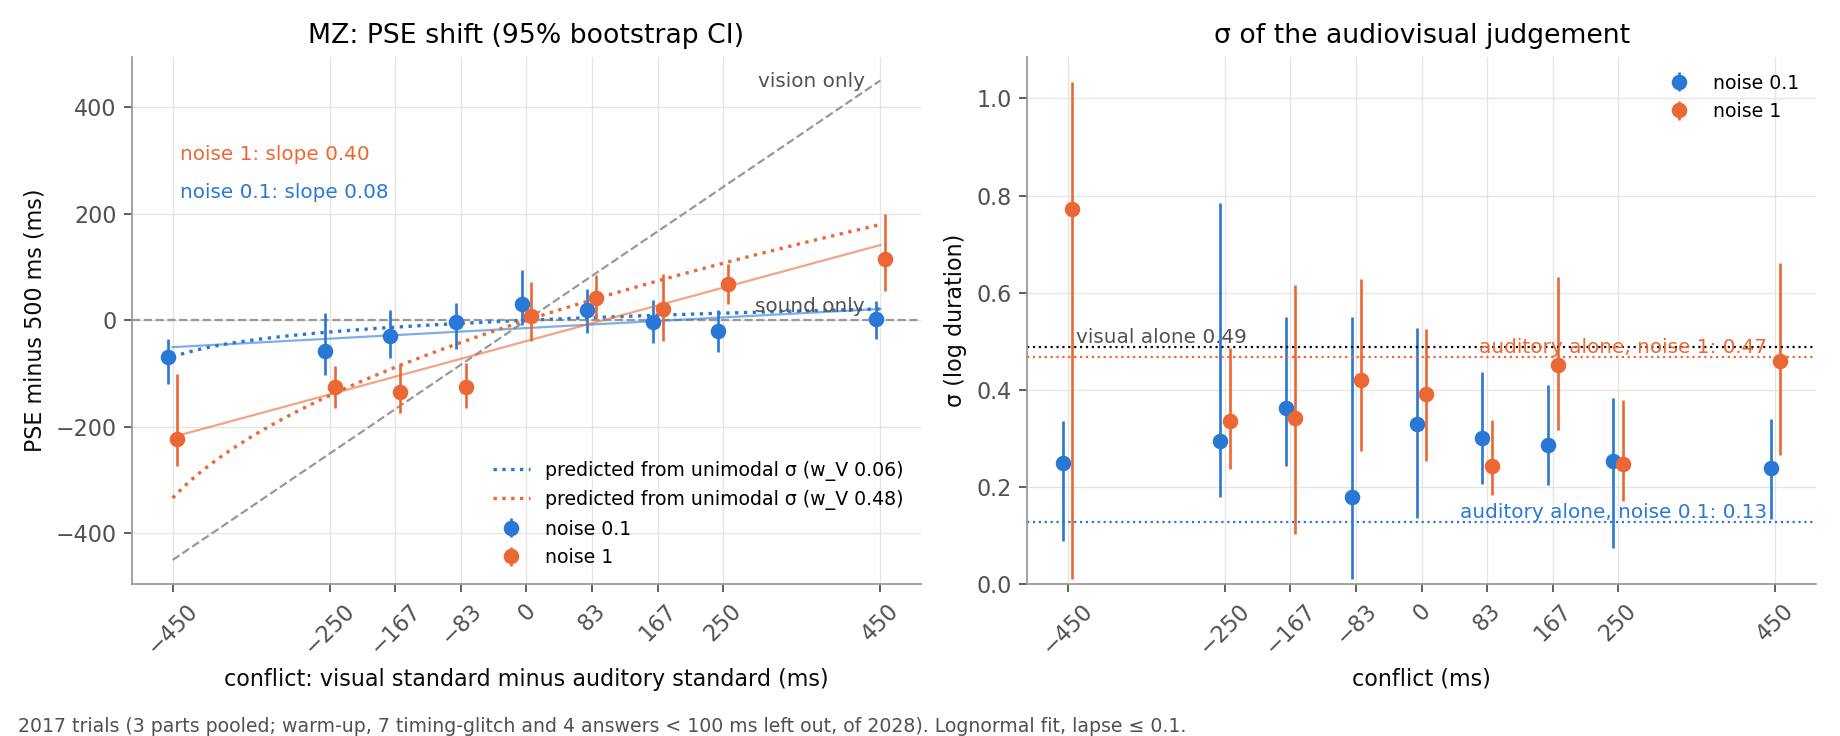
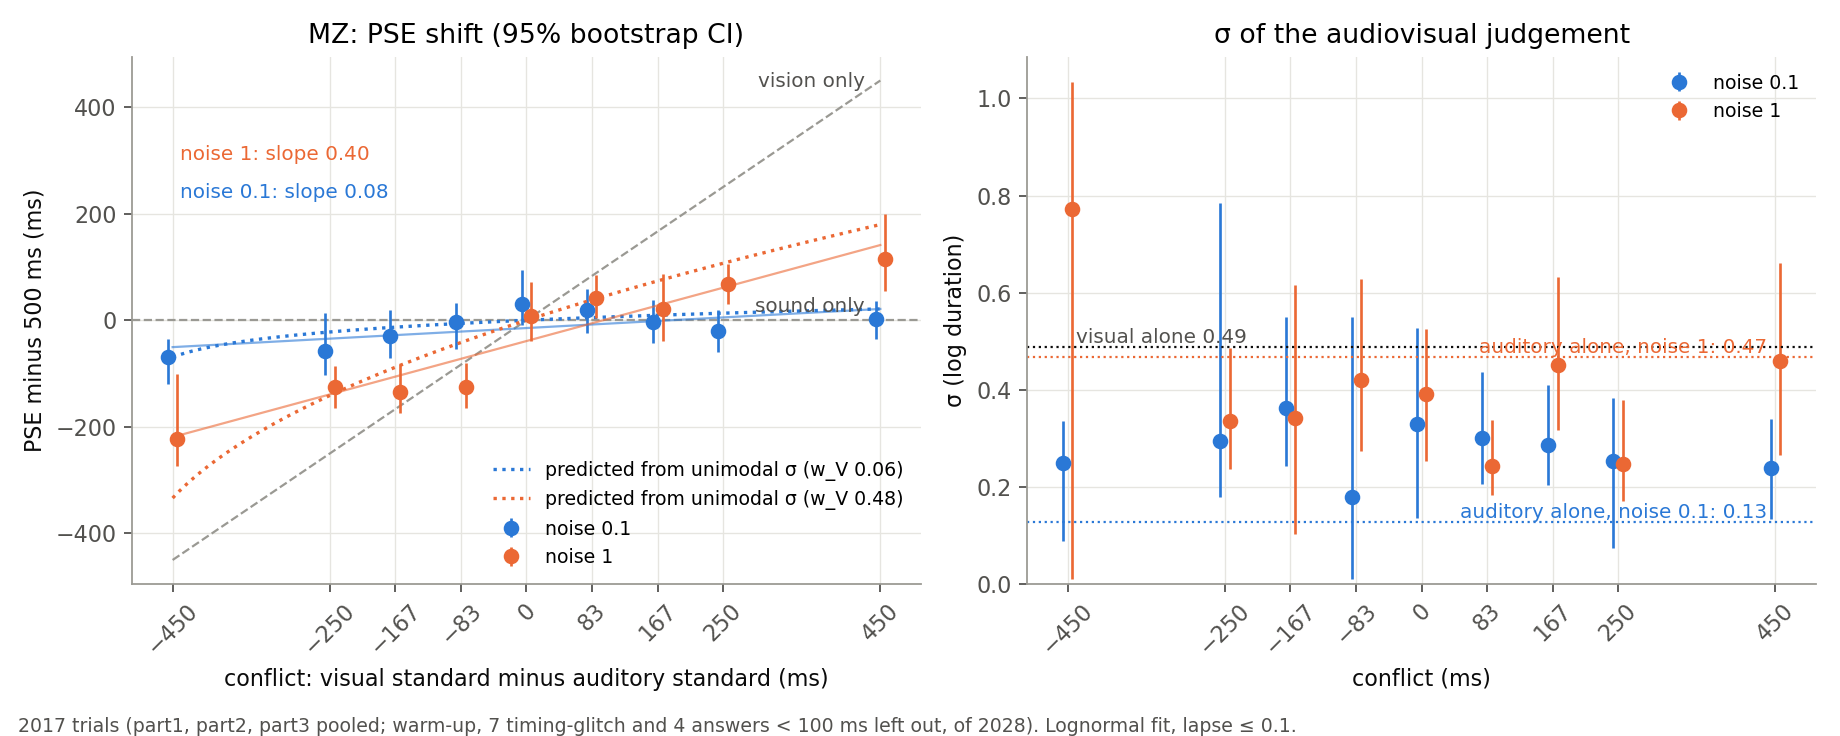
Staircase plots fit the staircases; main plots for KJ and BQ
stairplot: the y range now holds the staircase trials and the standard only.
Easy trials outside it (e.g. 2000 ms) are drawn on the panel edge.

main_bias_plots: name the parts actually pooled; --keep-fast keeps answers
under 100 ms (files get a _keepfast suffix). KJ (parts 1-2) and BQ (all
parts, with and without fast answers) fits and figures.

Changed region(s): [[0.062, 0.9688, 0.7125, 1.0]]

diff --git a/av_dur_experiment_v2/analysis/main_bias_plots.py b/av_dur_experiment_v2/analysis/main_bias_plots.py
@@ -3,6 +3,7 @@ psychometric fit of every condition. Lognormal fit, lapse <= 0.1 shared per nois
 
     python analysis/main_bias_plots.py MZ            # figures to analysis/pilot_main/
     python analysis/main_bias_plots.py MZ --refit    # refit (otherwise the saved fits are reused)
+    python analysis/main_bias_plots.py BQ --keep-fast   # keep answers < 100 ms (files get a _keepfast suffix)
 
 Left out: warm-up trials (load_trials), trials with a dropped frame or a late first frame (more than half
 a frame, so sound and flash were misaligned), and answers faster than 100 ms after the prompt.
@@ -27,6 +28,8 @@ PID = sys.argv[1] if len(sys.argv) > 1 else "MZ"
 DATA = ROOT / "data"
 OUT = ROOT / "analysis" / "pilot_main"
 N_BOOT = 200
+KEEP_FAST = "--keep-fast" in sys.argv
+SUF = "_keepfast" if KEEP_FAST else ""
 INK, MUTED, GREY = "#0b0b0b", "#52514e", "#9a9993"
 COL = {S.NOISE_LOW: "#2a78d6", S.NOISE_HIGH: "#eb6834"}          # categorical slots 1-2 (validated pair)
 plt.rcParams.update({"font.size": 10, "axes.spines.top": False, "axes.spines.right": False, "axes.edgecolor": GREY,
@@ -37,7 +40,7 @@ plt.rcParams.update({"font.size": 10, "axes.spines.top": False, "axes.spines.rig
 def clean(d):
     d = d[d.responses.isin([1, 2])]
     glitch = (d.n_dropped_frames.fillna(0) > 0) | (d.flip0_error_s.abs() > 0.5 / S.EXPECTED_FRAME_RATE_HZ)
-    fast = d.response_rts < 0.1
+    fast = (d.response_rts < 0.1) & (not KEEP_FAST)
     return d[~glitch & ~fast], int(glitch.sum()), int(fast.sum())
 
 
@@ -76,7 +79,7 @@ def main():
     m = m[m.kind.isin(["staircase", "lapse"])]
     m["conflict_ms"] = (1000 * m.conflict_nominal).round().astype(int)
     rows = []
-    saved = OUT / f"{PID}_main_fits.csv"
+    saved = OUT / f"{PID}_main_fits{SUF}.csv"
     if saved.exists() and "--refit" not in sys.argv:          # the bootstrap takes a few minutes
         rows = pd.read_csv(saved).to_dict("records")
     for (noise, c), d in ([] if rows else m.groupby(["audNoise", "conflict_ms"])):
@@ -87,7 +90,7 @@ def main():
     fits = pd.DataFrame(rows)
     uni = unimodal_sigmas(PID)
     OUT.mkdir(parents=True, exist_ok=True)
-    fits.round(4).to_csv(OUT / f"{PID}_main_fits.csv", index=False)
+    fits.round(4).to_csv(OUT / f"{PID}_main_fits{SUF}.csv", index=False)
 
     # ── figure 1: PSE shift and sigma against conflict ──────────────────────────
     fig, (a1, a2) = plt.subplots(1, 2, figsize=(11.5, 4.6))
@@ -126,10 +129,11 @@ def main():
     a1.tick_params(axis="x", labelrotation=45); a2.tick_params(axis="x", labelrotation=45)
     a1.legend(loc="lower right", fontsize=8.5)
     a2.legend(loc="upper right", fontsize=8.5)
-    fig.text(0.01, 0.005, f"{len(m)} trials (3 parts pooled; warm-up, {n_glitch} timing-glitch and {n_fast} "
+    parts = ", ".join(sorted(m.block.unique()))
+    fig.text(0.01, 0.005, f"{len(m)} trials ({parts} pooled; warm-up, {n_glitch} timing-glitch and {n_fast} "
              f"answers < 100 ms left out, of {n_all}). Lognormal fit, lapse ≤ 0.1.", color=MUTED, fontsize=8.5)
     fig.tight_layout(rect=(0, 0.03, 1, 1))
-    fig.savefig(OUT / f"{PID}_main_pse_sigma.png", dpi=160)
+    fig.savefig(OUT / f"{PID}_main_pse_sigma{SUF}.png", dpi=160)
 
     # ── figure 2: psychometric fits, one panel per noise level, one curve per conflict ──
     # diverging colour by conflict: blue = flash shorter than the sound, red = longer, grey = none
@@ -165,10 +169,10 @@ def main():
         ax.set_xlabel("test duration (ms; standard 500)")
         ax.legend(title="conflict (visual − auditory standard)", loc="upper left", fontsize=8.3, title_fontsize=8.5)
     np.atleast_1d(axes)[0].set_ylabel("P(test judged longer)")
-    fig.suptitle(f"{PID}: main experiment, all parts — lines: lognormal fits; dots: staircase trials, binned; "
+    fig.suptitle(f"{PID}: main experiment, {parts} — lines: lognormal fits; dots: staircase trials, binned; "
                  "dotted: standard", fontsize=10, color=INK, x=0.01, ha="left")
     fig.tight_layout(rect=(0, 0, 1, 0.95))
-    fig.savefig(OUT / f"{PID}_main_psychometrics.png", dpi=160)
+    fig.savefig(OUT / f"{PID}_main_psychometrics{SUF}.png", dpi=160)
     print(fits.round(3).to_string(index=False))
     print("unimodal sigma:", {k: round(v, 3) for k, v in uni.items()})
     print(f"left out: {n_glitch} timing glitches, {n_fast} answers < 100 ms (of {n_all})")

diff --git a/av_dur_experiment_v2/avdur/stairplot.py b/av_dur_experiment_v2/avdur/stairplot.py
@@ -20,10 +20,19 @@ def condition_label(task, noise, conflict, standard_ms=None):
     return label + (f', conflict {1000 * conflict:+.0f} ms' if task == 'main' else '')
 
 
+def y_range(d, std_ms):
+    """Y limits (ms) that hold every staircase trial and the standard, with a small margin."""
+    s = d.test_ms[d.kind == 'staircase']
+    lo, hi = min(s.min(), std_ms) if len(s) else std_ms, max(s.max(), std_ms) if len(s) else std_ms
+    pad = 0.06 * (hi - lo) + 10
+    return max(lo - pad, 0), hi + pad
+
+
 def plot_staircases(d, title='', show_fit=True):
     """Test duration (ms) of every trial in session order, one line per staircase, one panel per
     condition. Filled marker: test judged longer; open: standard judged longer; black ring:
-    reversal; grey x: easy (lapse) trial. Dotted line: standard; dashed: fitted PSE."""
+    reversal; grey x: easy (lapse) trial, grey triangle on the panel edge: easy trial outside the
+    staircases' range. Dotted line: standard; dashed: fitted PSE."""
     task = d.task.iloc[0]
     d = d[d.kind != 'warmup'].sort_values('trial_num').copy()       # warm-up trials are not analysed
     d['test_ms'] = 1000 * d.testDurS
@@ -59,9 +68,20 @@ def plot_staircases(d, title='', show_fit=True):
             ax.scatter(s.trial_num[~yes], s.test_ms[~yes], s=22, facecolors='white', edgecolors=col, zorder=3)
             rev = s.stair_is_reversal.isin(TRUE)
             ax.scatter(s.trial_num[rev], s.test_ms[rev], s=70, facecolors='none', edgecolors='black', lw=1, zorder=4)
-        lapse = c[c.kind == 'lapse']
-        ax.scatter(lapse.trial_num, lapse.test_ms, marker='x', color='0.5', s=25, label='easy trials')
+        # The y range follows the staircases, not the easy trials (from 13 Nov 2026): an easy trial outside it
+        # (e.g. 2000 ms) is drawn on the panel edge as a grey triangle, so the staircases keep the room.
         std = 1000 * c.standardDur.iloc[0]
+        lo, hi = y_range(d if not several else c, std)
+        ax.set_ylim(lo, hi)
+        lapse = c[c.kind == 'lapse']
+        inside = lapse.test_ms.between(lo, hi)
+        ax.scatter(lapse.trial_num[inside], lapse.test_ms[inside], marker='x', color='0.5', s=25, label='easy trials')
+        for side, y, mk in (('above', hi, '^'), ('below', lo, 'v')):
+            out = lapse[lapse.test_ms > hi] if side == 'above' else lapse[lapse.test_ms < lo]
+            if len(out):
+                ms = ', '.join(f'{v:.0f}' for v in sorted(out.test_ms.round().unique()))
+                ax.scatter(out.trial_num, np.full(len(out), y), marker=mk, color='0.5', s=22, clip_on=False,
+                           zorder=5, label=f'easy trials at {ms} ms (drawn on the edge)')
         ax.axhline(std, color='0.4', ls=':', lw=1)
         if show_fit and c.responses.isin([1, 2]).sum() > 20:
             p = pm.fit(c.assign(cnd='x'), 'cnd', 'lognormal', lapse_max=0.1)['params'].iloc[0]
